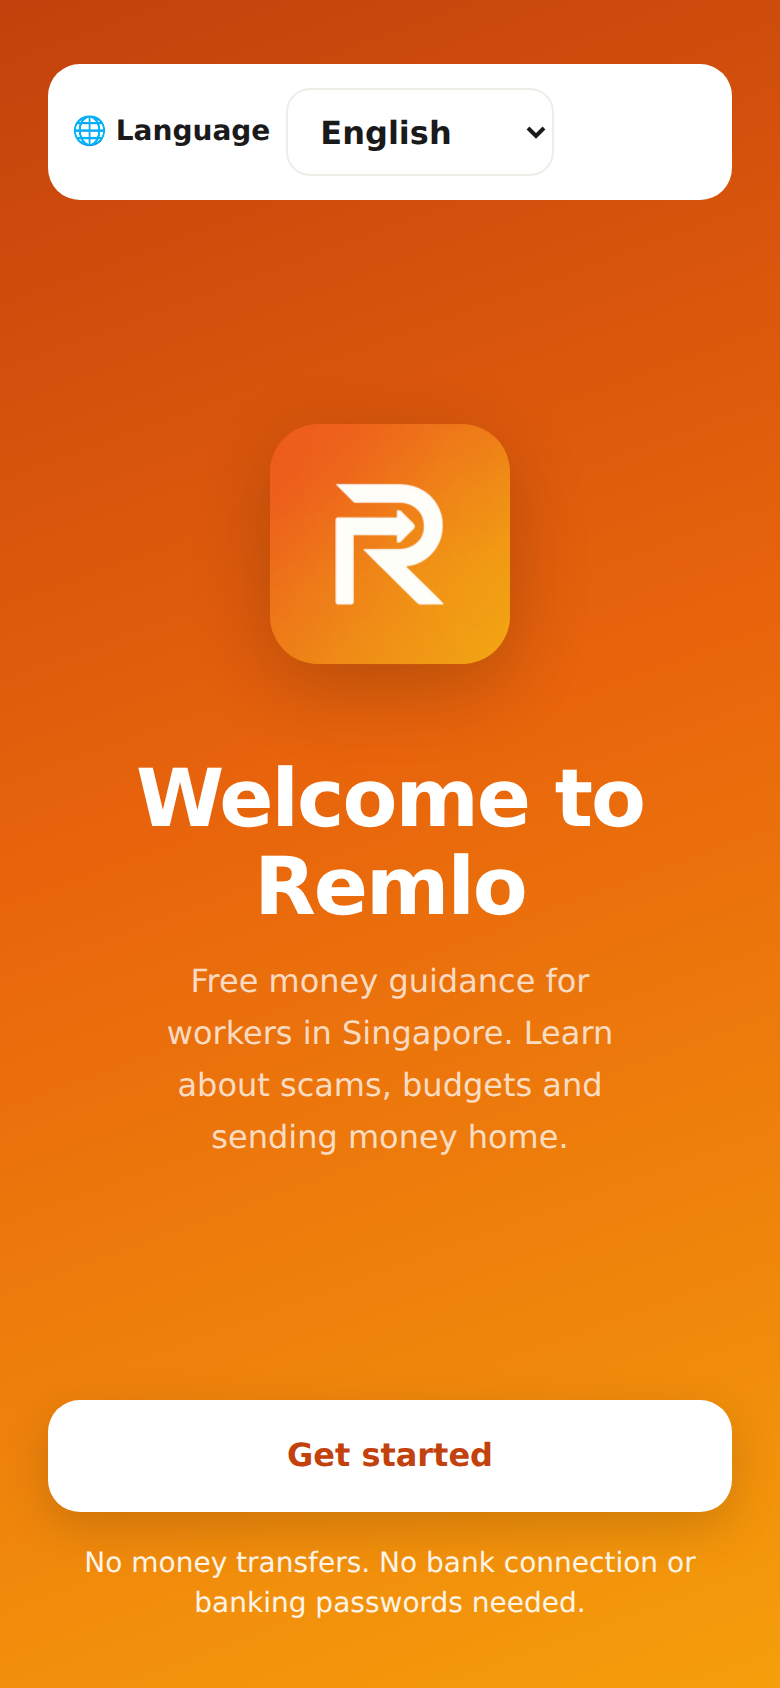
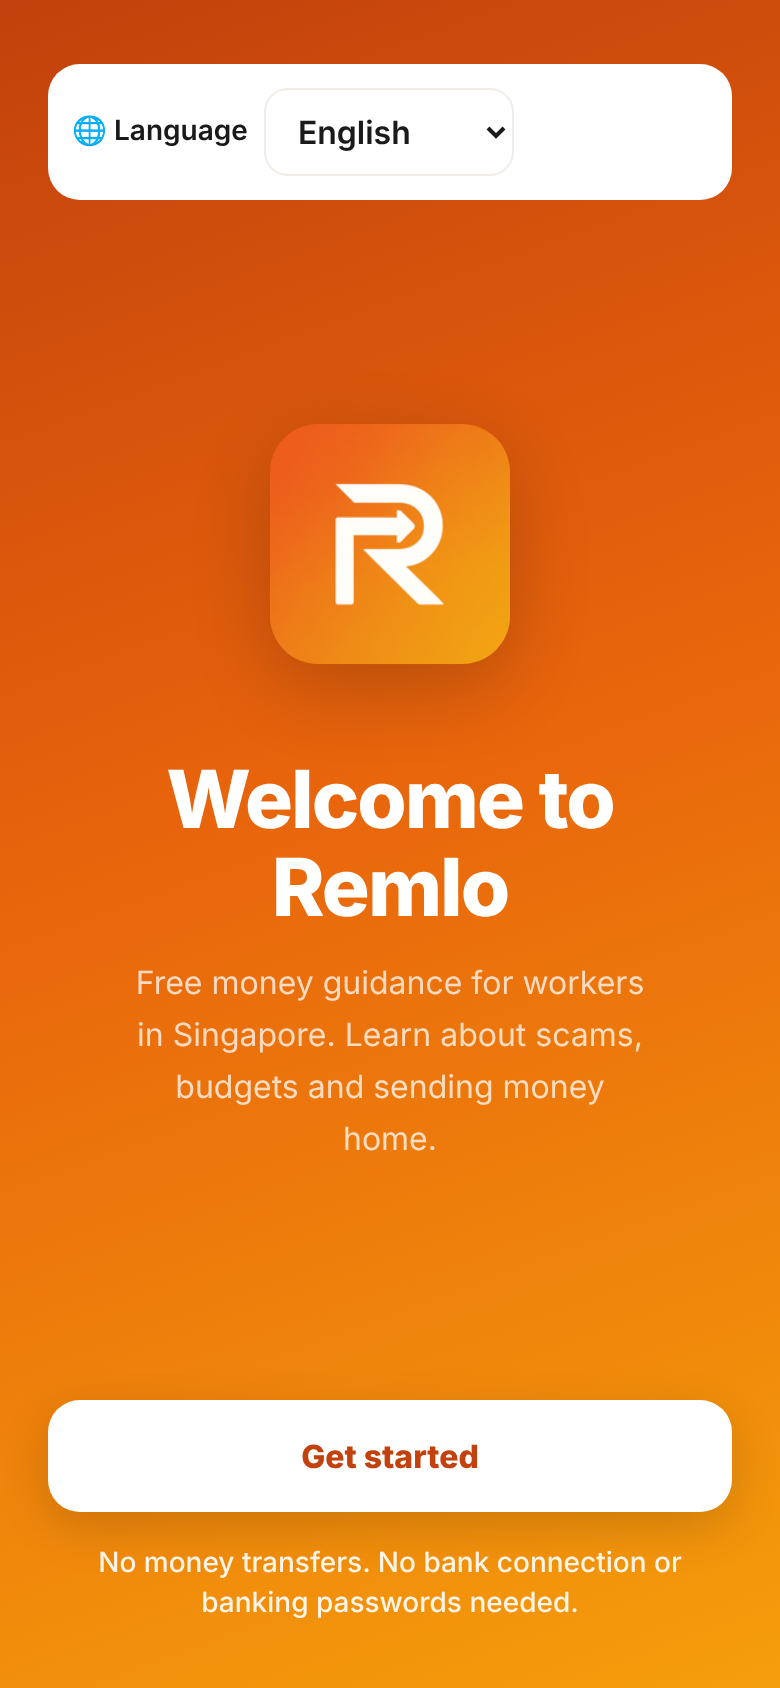
Refresh the site against Remlo f32e108: Vietnamese replaces Nepali, footer Contact link, Bahasa Indonesia label, new screenshots and alt text
Claude-Session: https://claude.ai/code/session_01Hh9X2SzxHeJAawsW3VUBeF

diff --git a/src/content/site.ts b/src/content/site.ts
@@ -71,7 +71,7 @@ export const site = {
     ],
     glanceLink: 'See what Remlo does',
     languagesLabel: 'Remlo is available in',
-    languagesCaption: 'Language names as they appear in the app.',
+    languagesCaption: 'Language names in their own scripts.',
     phoneAlt:
       'Remlo\'s welcome screen: a language selector, the message "Free money guidance for workers in Singapore", a Get started button and the note "No money transfers. No bank connection or banking passwords needed."',
   },
@@ -156,7 +156,7 @@ export const site = {
       budget: {
         title: 'Plan a budget and savings goals',
         body: "Plan the month's income and spending, including money for home, and track progress towards goals such as an emergency fund.",
-        alt: "Remlo's Budget Planner: a monthly income field and example expense categories including rent or dormitory, groceries, transport and phone plan, each with a Log Spend button.",
+        alt: "Remlo's Budget Planner: a monthly income field with an Add Income button, and example expense categories including rent or dormitory, groceries and transport, each with a Log Spend button.",
       },
       scamQuiz: {
         title: 'Practise spotting scams',

diff --git a/src/content/languages.ts b/src/content/languages.ts
@@ -1,6 +1,6 @@
 /*
  * Remlo's languages, copied from Nick-Thiery/remlo `src/lib/languages.js`
- * at commit 1eabe26adebca296ddab96353e0323ab01df6d5e (checked 28 Sep 2026).
+ * at commit f32e108 (checked 16 Oct 2026). Vietnamese replaced Nepali in Remlo on 13 Oct 2026.
  *
  * The hero language panel, the Remlo section's chips and every "N languages"
  * phrase are derived from this list, so update it only to match Remlo's code.
@@ -16,11 +16,11 @@ export const languages = languagesSchema.parse([
   { code: 'my', label: 'မြန်မာ', dir: 'ltr' },
   { code: 'si', label: 'සිංහල', dir: 'ltr' },
   { code: 'fil', label: 'Filipino', dir: 'ltr' },
-  { code: 'id', label: 'Indonesia', dir: 'ltr' },
+  { code: 'id', label: 'Bahasa Indonesia', dir: 'ltr' },
   { code: 'zh', label: '中文', dir: 'ltr' },
   { code: 'th', label: 'ภาษาไทย', dir: 'ltr' },
   { code: 'ur', label: 'اردو', dir: 'rtl' },
-  { code: 'ne', label: 'नेपाली', dir: 'ltr' },
+  { code: 'vi', label: 'Tiếng Việt', dir: 'ltr' },
 ]);
 
 export const languageCount = languages.length;

diff --git a/tests/unit/schemas.test.ts b/tests/unit/schemas.test.ts
@@ -32,7 +32,7 @@ describe('content modules (as shipped)', () => {
       'zh',
       'th',
       'ur',
-      'ne',
+      'vi',
     ]);
     expect(languages.find((l) => l.code === 'ur')?.dir).toBe('rtl');
     expect(languages.filter((l) => l.dir === 'rtl')).toHaveLength(1);
@@ -71,7 +71,7 @@ describe('content modules (as shipped)', () => {
   it('marks the supplied images approved, and alt text comes from the copy', () => {
     expect(images.every((image) => image.approved)).toBe(true);
     expect(images.find((i) => i.id === 'remlo-welcome')?.alt).toBe(site.hero.phoneAlt);
-    expect(images.find((i) => i.id === 'remlo-welcome')?.capturedFromCommit).toBe('1eabe26');
+    expect(images.find((i) => i.id === 'remlo-welcome')?.capturedFromCommit).toBe('f32e108');
   });
 
   it('builds the header nav in page order', () => {

diff --git a/src/content/sections.ts b/src/content/sections.ts
@@ -34,7 +34,7 @@ const allNav: NavItem[] = (Object.keys(site.nav) as SectionId[]).map((id) => ({
 export const navItems = allNav.filter((item) => renders[item.id]);
 
 /** The footer's FinanceForward group. */
-const footerIds: SectionId[] = ['what', 'approach', 'measure', 'updates', 'team'];
+const footerIds: SectionId[] = ['what', 'approach', 'measure', 'updates', 'team', 'contact'];
 export const footerNavItems = allNav.filter(
   (item) => footerIds.includes(item.id) && renders[item.id],
 );

diff --git a/src/content/images.ts b/src/content/images.ts
@@ -16,7 +16,7 @@ import remloScamQuiz from '../assets/screens/remlo-08-scam-quiz.png';
 import { imagesSchema, type ImageEntry } from './schemas';
 import { site } from './site';
 
-const REMLO_COMMIT = '1eabe26';
+const REMLO_COMMIT = 'f32e108';
 
 export const images = imagesSchema.parse([
   {

diff --git a/CHANGES.md b/CHANGES.md
@@ -375,3 +375,11 @@ JS and CSS are transfer sizes. Reports are in `artifacts/lighthouse/`.
 - **Private material:** `handoff/` is git-ignored and was never committed or uploaded. `review/` is committed to this private repo but never built or uploaded.
 
 🤖 Generated with [Claude Code](https://claude.com/claude-code)
+
+## 16 Oct 2026 refresh (branch `claude/site-refresh`)
+
+- **Languages:** Nepali replaced by Vietnamese (`vi`, Tiếng Việt) in `src/content/languages.ts`, to match Remlo at `f32e108`. The count stays 12. The hero panel, the Remlo chips and the "12 languages" wording derive from that list.
+- **Indonesian label:** "Indonesia" is now "Bahasa Indonesia" on the site. The caption under the language panel no longer says the names appear "as they appear in the app" (the app still shows "Indonesia"), and now reads "Language names in their own scripts."
+- **Footer:** the FinanceForward link group now ends with "Contact" (`#contact`).
+- **Screenshots:** all three recaptured from a local build of Remlo `f32e108` (placeholder Supabase env, no PostHog key, guest mode, 390×844 @2x). The Budget screen had changed; the other two were recaptured so the set looks consistent. remloapp.com was not loaded.
+- **Alt text:** the Budget alt now mentions the Add Income button and no longer lists Phone Plan, which is out of frame in the new capture.
